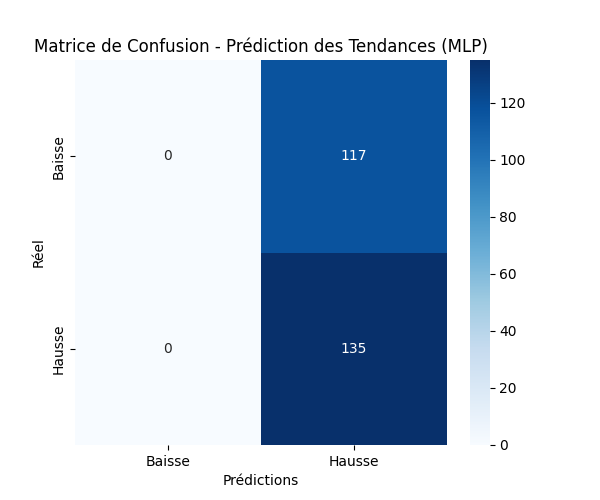
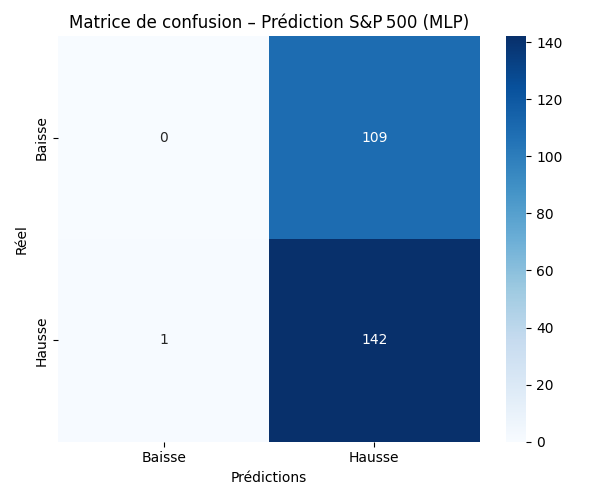
Enhance MLP model for S&P 500 trend prediction: implement HTTP caching, retry logic for data download, chronological split for training/testing, and improve evaluation and visualization metrics.

diff --git a/MLP/mlp.py b/MLP/mlp.py
@@ -1,79 +1,122 @@
+# ------------------------- 0. Imports -------------------------
+import time
+import requests_cache
 import pandas as pd
 import numpy as np
 import matplotlib.pyplot as plt
 import seaborn as sns
 import yfinance as yf
-from sklearn.model_selection import train_test_split
+
 from sklearn.preprocessing import StandardScaler
 from sklearn.metrics import recall_score, precision_score, roc_auc_score, accuracy_score, confusion_matrix, roc_curve
-
 from tensorflow.keras.models import Sequential
 from tensorflow.keras.layers import Dense, Dropout
 
-# Télécharger les données du S&P 500
-sp500 = yf.download('^GSPC', start='2020-01-01', end='2025-01-01')  # Ajuste les dates selon tes besoins
-data = sp500[['Open', 'High', 'Low', 'Close', 'Volume']].copy()
+# ------------------------- 1. Cache HTTP -------------------------
+requests_cache.install_cache("yfinance_cache", expire_after=86400)  # 24 h
 
-# Créer une cible : 1 si la clôture augmente demain, 0 sinon
-data['Target'] = np.where(data['Close'].shift(-1) > data['Close'], 1, 0)
-data = data.dropna()
+# ------------------------- 2. Téléchargement avec retry -------------------------
+def download_sp500(ticker="^GSPC", start="2020-01-01", end="2025-01-01", n_try=5, sleep_base=2):
+    for attempt in range(1, n_try + 1):
+        try:
+            df = yf.download(ticker, start=start, end=end, progress=False, threads=False)
+            if not df.empty:
+                print(f"Téléchargement réussi à la tentative {attempt}")
+                return df
+        except Exception as e:
+            print(f"[Tentative {attempt}/{n_try}] Erreur: {e}")
+        time.sleep(sleep_base ** attempt)  # backoff exponentiel
+    raise RuntimeError("Impossible de télécharger les données après plusieurs tentatives.")
 
-# Features et cible
-X = data[['Open', 'High', 'Low', 'Close', 'Volume']]
-y = data['Target']
+# ------------------------- 3. Chargement des données -------------------------
+try:
+    sp500 = download_sp500()
+except RuntimeError:
+    print("⚠ Utilisation d'une sauvegarde locale sp500_backup.csv")
+    sp500 = pd.read_csv("sp500_backup.csv", parse_dates=["Date"], index_col="Date")
 
-# Diviser en train/test
-X_train, X_test, y_train, y_test = train_test_split(X, y, test_size=0.2, random_state=42, stratify=y)
+data = sp500[["Open", "High", "Low", "Close", "Volume"]].copy()
+data["Target"] = np.where(data["Close"].shift(-1) > data["Close"], 1, 0)
+data.dropna(inplace=True)
 
-# Standardiser les features
+if data.empty:
+    raise RuntimeError("Le DataFrame est vide – vérifie la source de données.")
+
+# ------------------------- 4. Split chronologique -------------------------
+features = ["Open", "High", "Low", "Close", "Volume"]
+split_date = "2024-01-01"
+
+train = data.loc[:split_date]
+test = data.loc[split_date:]
+
+X_train, y_train = train[features], train["Target"]
+X_test, y_test = test[features], test["Target"]
+
+# ------------------------- 5. Standardisation -------------------------
 scaler = StandardScaler()
 X_train = scaler.fit_transform(X_train)
 X_test = scaler.transform(X_test)
 
-# Construire le modèle MLP
+# ------------------------- 6. Modèle MLP -------------------------
 model = Sequential([
-    Dense(32, activation='relu', input_shape=(X_train.shape[1],)),
+    Dense(32, activation="relu", input_shape=(X_train.shape[1],)),
     Dropout(0.3),
-    Dense(16, activation='relu'),
+    Dense(16, activation="relu"),
     Dropout(0.2),
-    Dense(8, activation='relu'),
-    Dense(1, activation='sigmoid')
+    Dense(8, activation="relu"),
+    Dense(1, activation="sigmoid")
 ])
 
-# Compiler le modèle
-model.compile(optimizer='adam', loss='binary_crossentropy', metrics=['accuracy'])
+model.compile(optimizer="adam", loss="binary_crossentropy", metrics=["accuracy"])
 
-# Entraîner le modèle
-history = model.fit(X_train, y_train, validation_split=0.2, epochs=20, batch_size=32, verbose=1)
+history = model.fit(
+    X_train, y_train,
+    validation_split=0.2,
+    epochs=20,
+    batch_size=32,
+    verbose=1
+)
 
-# Prédictions avec seuil par défaut (0.5)
-y_pred_proba = model.predict(X_test)
-y_pred = (y_pred_proba >= 0.5).astype(int).flatten()
+# ------------------------- 7. Évaluation -------------------------
+y_pred_proba = model.predict(X_test).flatten()
+y_pred = (y_pred_proba >= 0.5).astype(int)
 
-# Métriques
 recall = recall_score(y_test, y_pred)
 precision = precision_score(y_test, y_pred)
 auc = roc_auc_score(y_test, y_pred_proba)
 accuracy = accuracy_score(y_test, y_pred)
 cm = confusion_matrix(y_test, y_pred)
 
-# Afficher les résultats
-print("Métriques sur l'ensemble de test :")
-print(f"Rappel = {recall:.2f}, Précision = {precision:.2f}, AUC = {auc:.2f}, Exactitude = {accuracy:.2f}")
+print("\nMétriques sur l'ensemble de test :")
+print(f"  Rappel     : {recall:.2f}")
+print(f"  Précision  : {precision:.2f}")
+print(f"  AUC        : {auc:.2f}")
+print(f"  Exactitude : {accuracy:.2f}")
 print("Matrice de confusion :")
 print(cm)
 
-# Graphique : Matrice de confusion
+# ------------------------- 8. Visualisations -------------------------
+# Matrice de confusion
 plt.figure(figsize=(6, 5))
-sns.heatmap(cm, annot=True, fmt='d', cmap='Blues', 
-            xticklabels=['Baisse', 'Hausse'], 
-            yticklabels=['Baisse', 'Hausse'])
-plt.title("Matrice de Confusion - Prédiction des Tendances (MLP)")
+sns.heatmap(cm, annot=True, fmt="d", cmap="Blues",
+            xticklabels=["Baisse", "Hausse"],
+            yticklabels=["Baisse", "Hausse"])
+plt.title("Matrice de confusion – Prédiction S&P 500 (MLP)")
 plt.xlabel("Prédictions")
 plt.ylabel("Réel")
+plt.tight_layout()
 plt.savefig("confusion_matrix_sp500.png")
 plt.show()
 
-# Graphique : Courbe ROC
+# Courbe ROC
 fpr, tpr, _ = roc_curve(y_test, y_pred_proba)
-plt.figure
+plt.figure(figsize=(6, 5))
+plt.plot(fpr, tpr, lw=2, label=f"AUC = {auc:.2f}")
+plt.plot([0, 1], [0, 1], linestyle="--")
+plt.xlabel("Taux de faux positifs (FPR)")
+plt.ylabel("Taux de vrais positifs (TPR)")
+plt.title("Courbe ROC – Prédiction S&P 500 (MLP)")
+plt.legend(loc="lower right")
+plt.tight_layout()
+plt.savefig("roc_curve_sp500.png")
+plt.show()
